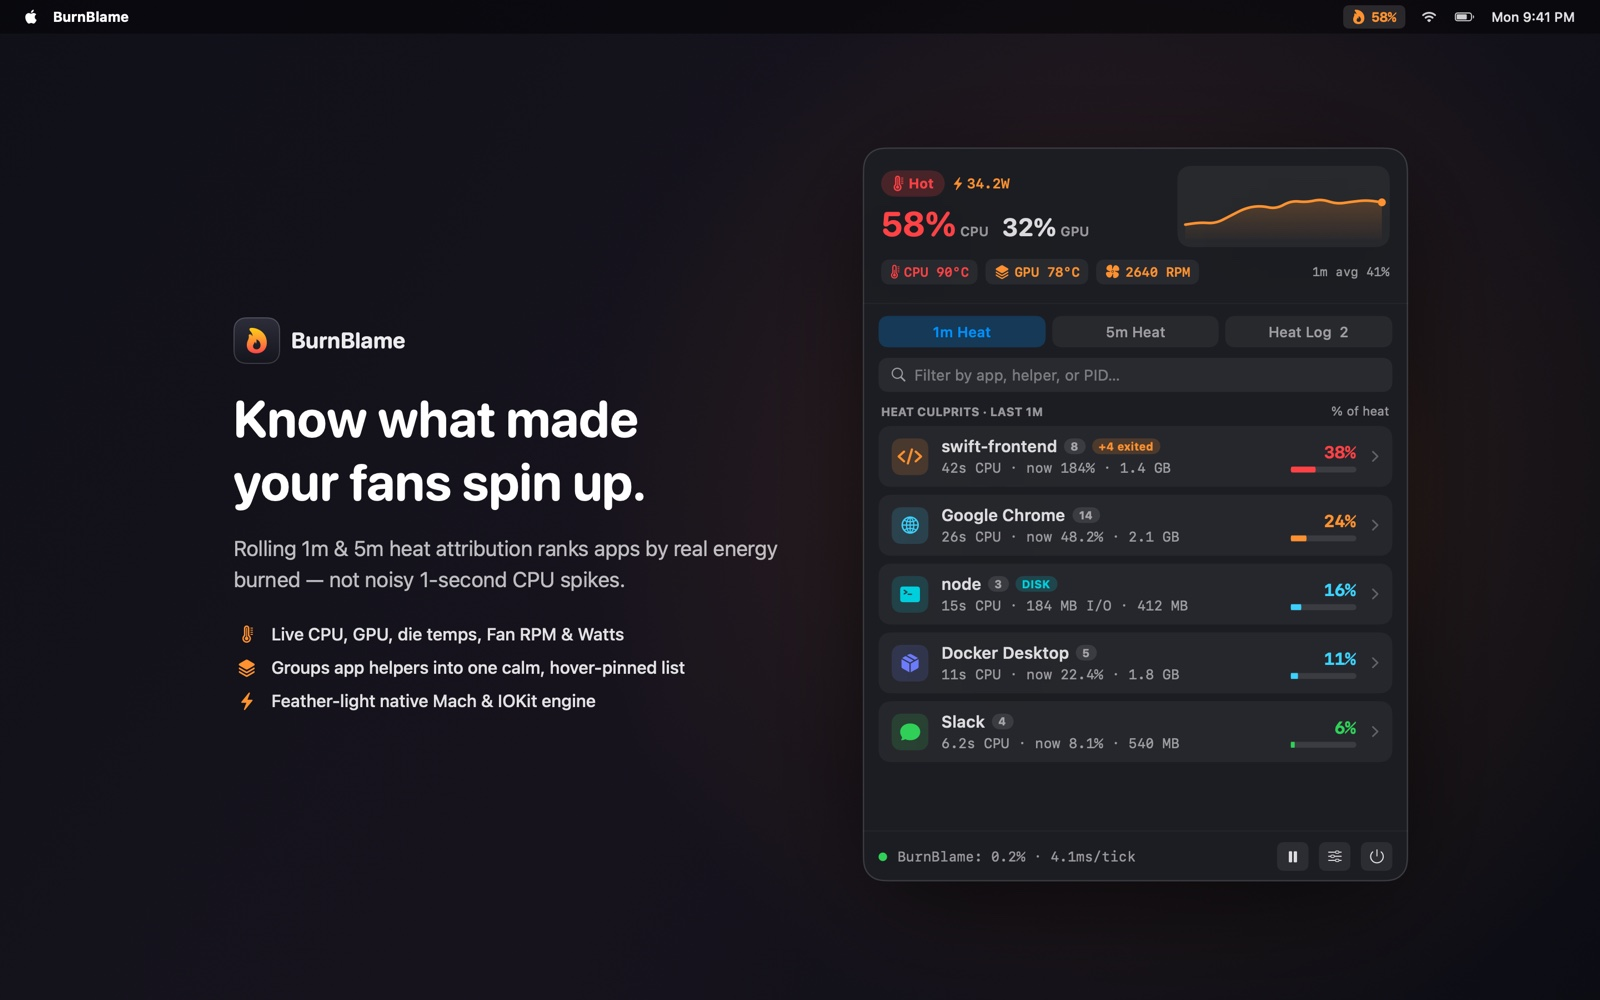
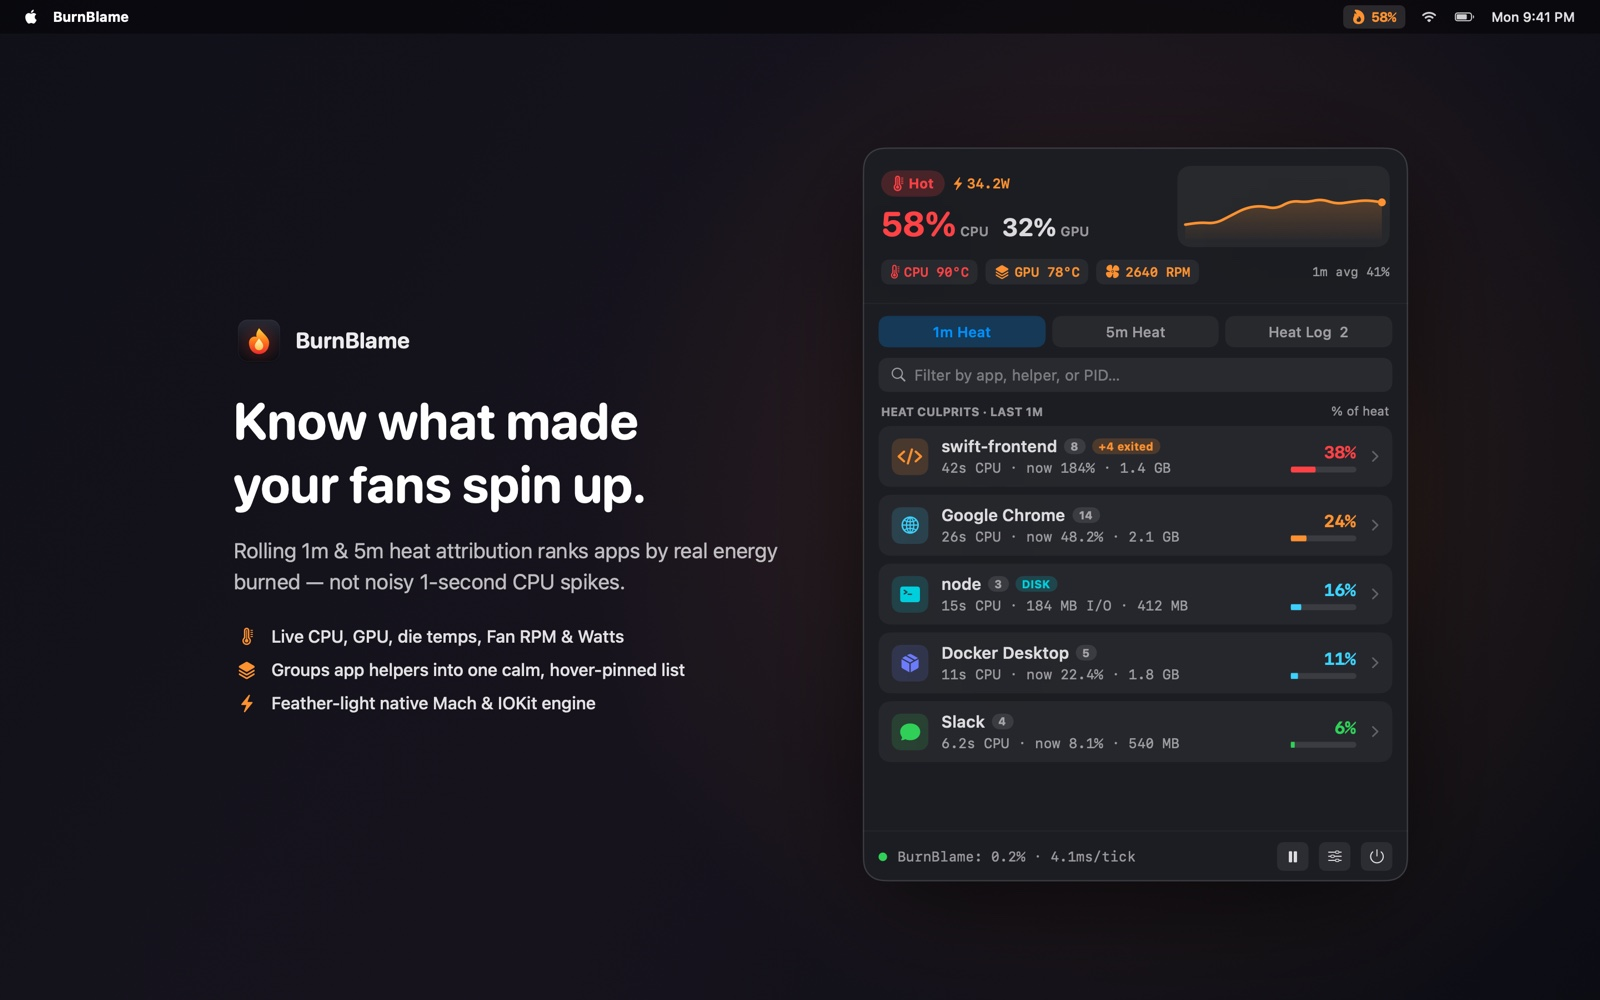
Use actual BurnBlame AppIcon inside showcase screenshots

diff --git a/scripts/generate-screenshots.swift b/scripts/generate-screenshots.swift
@@ -84,25 +84,12 @@ struct MarketingCanvas<Content: View>: View {
                 // Left: Apple-style product copy
                 VStack(alignment: .leading, spacing: 22) {
                     HStack(spacing: 10) {
-                        ZStack {
-                            RoundedRectangle(cornerRadius: 11, style: .continuous)
-                                .fill(
-                                    LinearGradient(
-                                        colors: [Color(red: 0.18, green: 0.18, blue: 0.23), Color(red: 0.08, green: 0.08, blue: 0.11)],
-                                        startPoint: .top,
-                                        endPoint: .bottom
-                                    )
-                                )
-                                .frame(width: 42, height: 42)
-                                .overlay(
-                                    RoundedRectangle(cornerRadius: 11, style: .continuous)
-                                        .strokeBorder(Color.white.opacity(0.16), lineWidth: 1)
-                                )
-                            Image(systemName: "flame.fill")
-                                .font(.system(size: 21, weight: .bold))
-                                .foregroundStyle(
-                                    LinearGradient(colors: [.yellow, .orange, .red], startPoint: .top, endPoint: .bottom)
-                                )
+                        if let iconImg = NSImage(contentsOfFile: "docs/icon.png") {
+                            Image(nsImage: iconImg)
+                                .resizable()
+                                .interpolation(.high)
+                                .aspectRatio(contentMode: .fit)
+                                .frame(width: 46, height: 46)
                         }
                         Text("BurnBlame")
                             .font(.system(size: 20, weight: .bold, design: .rounded))
